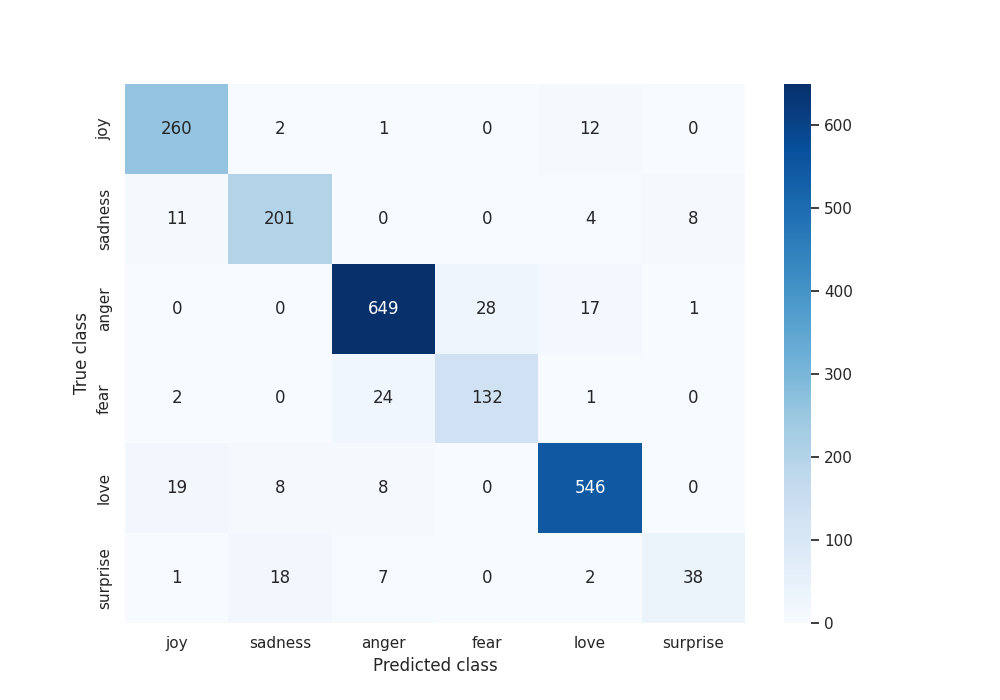
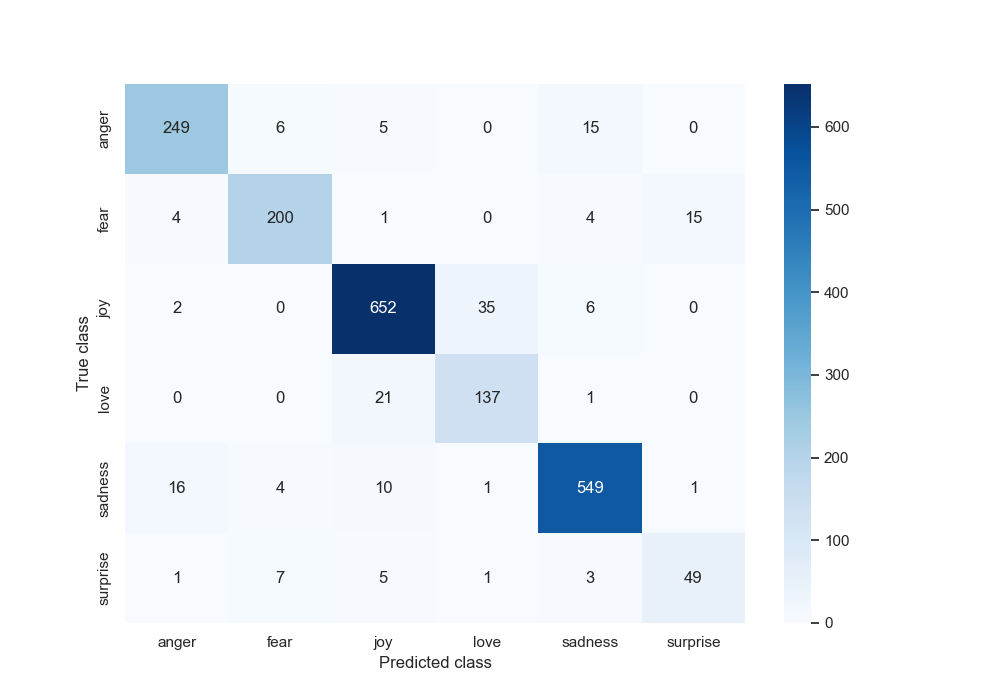
qq1

diff --git a/src/models/train_model.py b/src/models/train_model.py
@@ -18,9 +18,9 @@ from transformers import (AutoModelForSequenceClassification, AutoTokenizer,
 from get_project_root import root_path
 
 
-sys.path.append(os.getcwd())
-print(sys.path.append(os.getcwd()))
-sys.path.append('..')
+#sys.path.append(os.getcwd())
+#print(sys.path.append(os.getcwd()))
+#sys.path.append('..')
 
 sys.path.insert(1, os.path.join(sys.path[0], ".."))
 print(sys.path.insert(1, os.path.join(sys.path[0], "..")))
@@ -67,12 +67,13 @@ def main(config: DictConfig):
     wandb.init(mode="disabled")
             
     
-    project_root = root_path(ignore_cwd=False)
+    #project_root = root_path(ignore_cwd=False)
     
-    # Access data from processed folder
-    train_dataset = torch.load(project_root + '/data/processed/train.pth') 
-    valid_dataset = torch.load(project_root + '/data/processed/valid.pth')
-    test_dataset = torch.load(project_root + '/data/processed/test.pth')
+    project_root = Path(__file__).parent.parent.parent
+    train_dataset = torch.load(project_root.joinpath('data', 'processed', 'train.pth'))
+    valid_dataset = torch.load(project_root.joinpath('data', 'processed', 'valid.pth'))
+    test_dataset = torch.load(project_root.joinpath('data', 'processed', 'test.pth'))
+
 
 
     # ---------------- Model Definition / Tokenization / Encoding / Metrics definition ---------------------
@@ -123,7 +124,7 @@ def main(config: DictConfig):
         warmup_steps=500,                                     # number of warmup steps for learning rate scheduler
         weight_decay=config.train.weight_decay,               # strength of weight decay
         logging_strategy= 'epoch',
-        logging_dir= project_root + '/models/logs',                            # directory for storing logs
+        logging_dir= project_root.joinpath('models', 'logs'),                            # directory for storing logs
         load_best_model_at_end=True,                          # load the best model when finished training (default metric is loss)
         metric_for_best_model = 'accuracy',
                                             
@@ -152,7 +153,7 @@ def main(config: DictConfig):
     #tokenizer.push_to_hub("lucixls/models")
 
     # Save the model and tokenizer for predict_model (locally)
-    model_path = project_root + '/models/models_trained',
+    model_path = project_root.joinpath('models', 'models_trained'),
     model.save_pretrained(model_path)
     tokenizer.save_pretrained(model_path)
 
@@ -167,14 +168,17 @@ def main(config: DictConfig):
     predictions,labels, metrics = trainer.predict(test_dataset)  
     # Conf matrix definition
     matrix = confusion_matrix(labels, predictions.argmax(axis=1))
+    cm_df = pd.DataFrame(matrix,
+                     index = ['anger','fear','joy', 'love','sadness','surprise'], 
+                     columns = ['anger','fear','joy', 'love','sadness','surprise'])
 
     # Confusion matrix with counts (plot)
     plt.figure(figsize = (10,7))
     sns.set(font_scale=1.0)
-    sns.heatmap(matrix, annot=True, cmap='Reds',fmt='g')
+    sns.heatmap(cm_df, annot=True, cmap='Reds',fmt='g')
     plt.xlabel("Predicted class")
     plt.ylabel("True class") 
-    plt.savefig(project_root + '/reports/figures/cfm_train.png')
+    plt.savefig(project_root.joinpath('reports', 'figures', 'cfm_train.png'))
 
     # Classification report
     clas_report = classification_report(labels, predictions.argmax(axis=1))

diff --git a/src/models/predict_model.py b/src/models/predict_model.py
@@ -21,6 +21,7 @@ sys.path.insert(1, os.path.join(sys.path[0], ".."))
 import argparse
 import logging
 import os
+from pathlib import Path
 
 import click
 import matplotlib.pyplot as plt
@@ -127,11 +128,15 @@ def main(model_filepath, data_filepath):
             'recall': recall
         }
 
-    project_root = root_path(ignore_cwd=False)
+    #project_root = root_path(ignore_cwd=False)
 
      # Access data from processed folder (for definition of the trainer object)
-    train_dataset = torch.load(project_root + '/data/processed/train.pth') 
-    valid_dataset = torch.load(project_root + '/data/processed/valid.pth')
+    #train_dataset = torch.load(project_root + '/data/processed/train.pth') 
+    #valid_dataset = torch.load(project_root + '/data/processed/valid.pth')
+    
+    project_root = Path(__file__).parent.parent.parent
+    train_dataset = torch.load(project_root.joinpath('data', 'processed', 'train.pth'))
+    valid_dataset = torch.load(project_root.joinpath('data', 'processed', 'valid.pth'))
 
 
     training_args = TrainingArguments(
@@ -181,7 +186,7 @@ def main(model_filepath, data_filepath):
     sns.heatmap(cm_df, annot=True, cmap='Blues',fmt='g')
     plt.xlabel("Predicted class")
     plt.ylabel("True class") 
-    plt.savefig(project_root + '/reports/figures/cfm_predict.png')
+    plt.savefig(project_root.joinpath('reports', 'figures', 'cfm_predict.png'))
 
 
 
